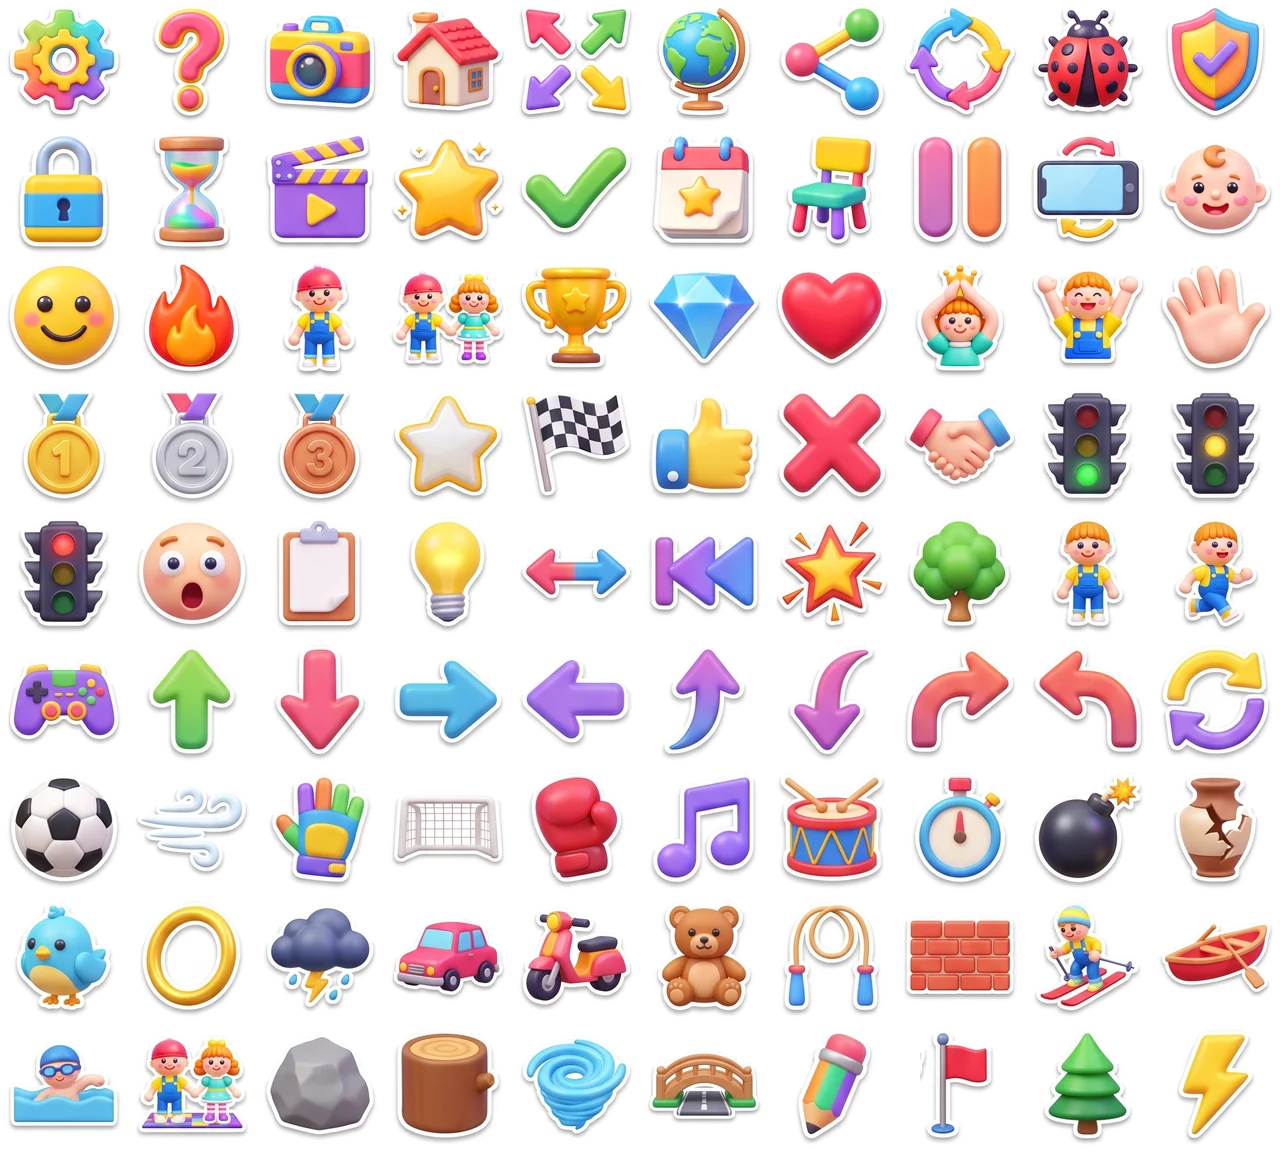
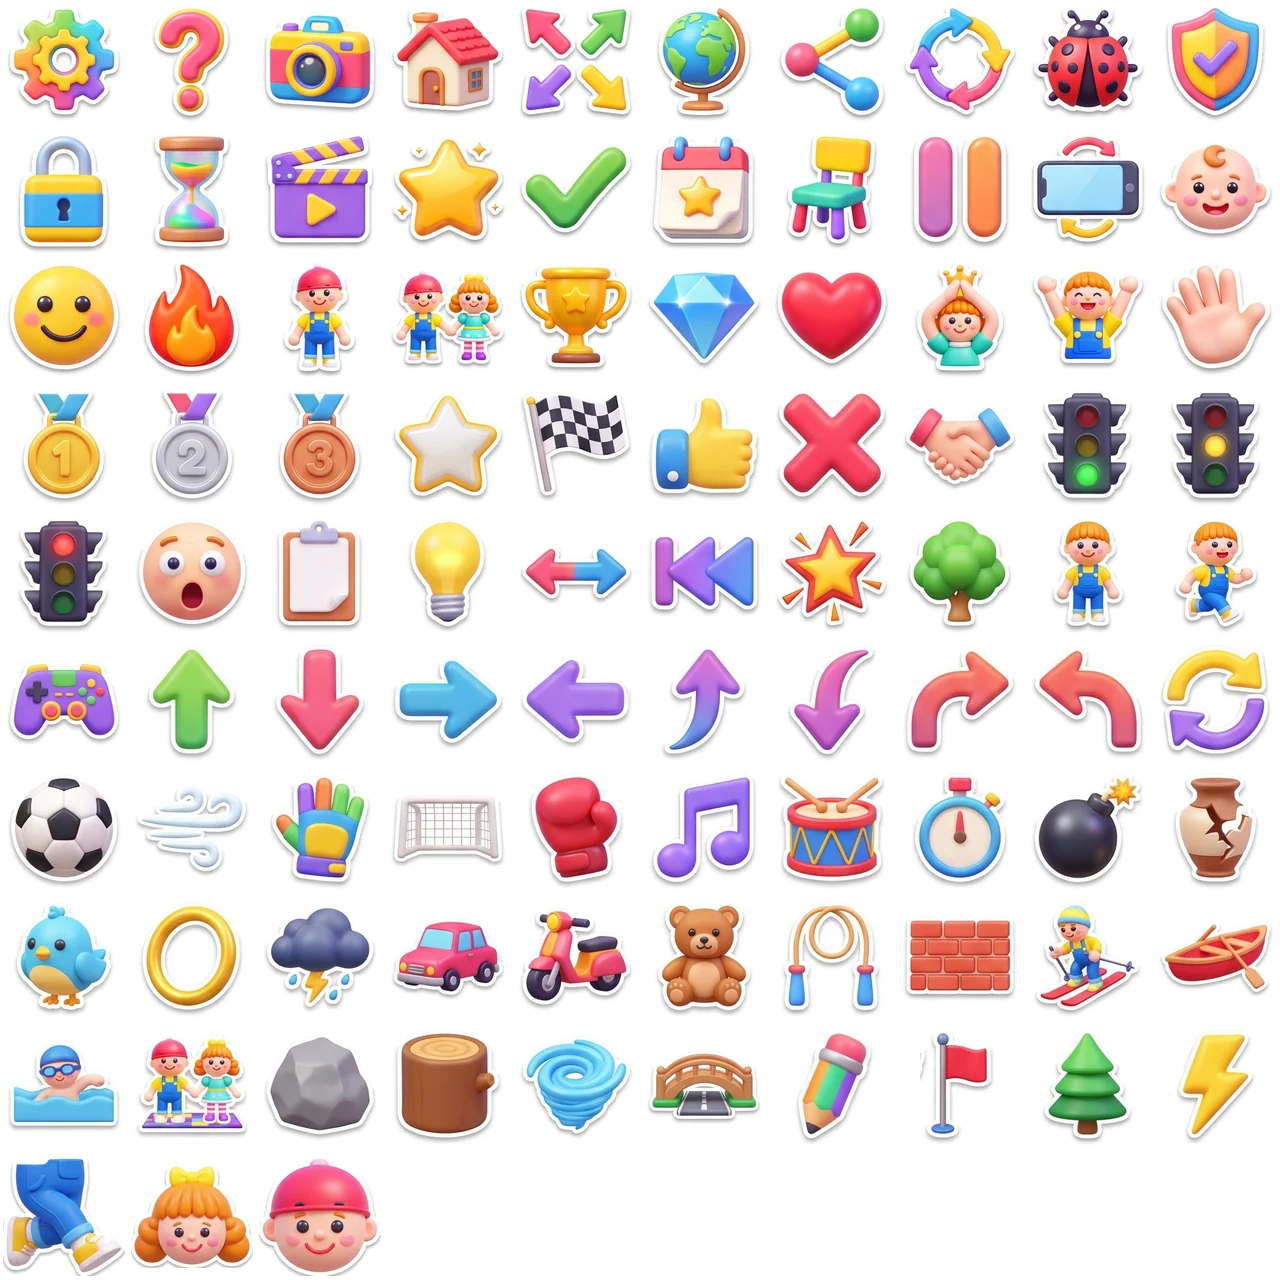
Simgeler: bacak simgesi, karakter düğmelerine Ponçik ve Zıpır yüzleri
Claude-Session: https://claude.ai/code/session_015fAnPL2zg1aQeccfnf8zVv

diff --git a/index.html b/index.html
@@ -211,8 +211,9 @@
   #ogretici, #ayarPanel, #cikisPanel, #bilgiPanel, #kilit, #cift { bottom: var(--alt); }
   @media (orientation: portrait) { #kartlar { grid-template-columns: repeat(3, 1fr); grid-auto-rows: auto; flex: 1; } }
   /* Oyunun kendi simgeleri (emojilerin yerine, tek resim atlası) */
-  .sm { display: inline-block; width: 1.3em; height: 1.3em; vertical-align: -0.3em; background: url(assets/simgeler.webp) 0 0 / 1000% 900% no-repeat; font-style: normal; }
+  .sm { display: inline-block; width: 1.3em; height: 1.3em; vertical-align: -0.3em; background: url(assets/simgeler.webp) 0 0 / 1000% 1000% no-repeat; font-style: normal; }
   button .sm, .rozet .sm { margin: 0 .05em; }
+  .kart .sm.yuz { width: 1.7em; height: 1.7em; vertical-align: -0.55em; margin: -.2em .2em -.2em -.1em; }
 </style>
 </head>
 <body>
@@ -368,8 +369,8 @@ async function dilYukle(k) {
 //  SİMGELER — ekrandaki emojiler oyunun kendi çizim simgeleriyle (assets/simgeler.webp, tek resim) değiştirilir.
 //  Tek tablo: emoji → simge adı. Sayfadaki her yazı (düğme, mesaj, panel) otomatik çevrilir; tuvale de aynı simge çizilir.
 // =====================================================================================================
-const SIMGE_KOL = 10, SIMGE_SAT = 9, SIMGE_BOY = 128, SIMGE_YER = {"ayar":0,"soru":1,"kamera":2,"ev":3,"tamekran":4,"dunya":5,"paylas":6,"geriyukle":7,"bocek":8,"kalkan":9,"kilit":10,"kumsaati":11,"reklam":12,"yildiz":13,"onay":14,"takvim":15,"sandalye":16,"duraklat":17,"telefon":18,"bebek":19,"gulen":20,"alev":21,"tek":22,"iki":23,"kupa":24,"elmas":25,"kalp":26,"tac":27,"zafer":28,"el":29,"altin":30,"gumus":31,"bronz":32,"bosyildiz":33,"bitis":34,"begen":35,"carpi":36,"tokalasma":37,"isikyesil":38,"isiksari":39,"isikkirmizi":40,"sasik":41,"pano":42,"ampul":43,"ciftok":44,"geri":45,"patlama":46,"agac":47,"ayakta":48,"kosan":49,"kumanda":50,"yukari":51,"asagi":52,"sag":53,"sol":54,"kivrikyukari":55,"kivrikasagi":56,"sagadonus":57,"soladonus":58,"dongu":59,"top":60,"ruzgar":61,"eldiven":62,"kale":63,"boks":64,"nota":65,"davul":66,"kronometre":67,"bomba":68,"vazo":69,"kus":70,"halka":71,"firtina":72,"araba":73,"motor":74,"ayi":75,"ip":76,"duvar":77,"kayakci":78,"kayik":79,"yuzucu":80,"dans":81,"kaya":82,"kutuk":83,"girdap":84,"kopru":85,"kalem":86,"bayrak":87,"cam":88,"simsek":89};
-const EMOJI_SIMGE = { "📱↻": "telefon", "💃🕺": "dans", "⚙": "ayar", "❓": "soru", "📷": "kamera", "🏠": "ev", "⛶": "tamekran", "🌐": "dunya", "📤": "paylas", "🔄": "geriyukle", "🐞": "bocek", "🛡": "kalkan", "🔒": "kilit", "⏳": "kumsaati", "🎬": "reklam", "⭐": "yildiz", "★": "yildiz", "☆": "bosyildiz", "✅": "onay", "📅": "takvim", "🪑": "sandalye", "⏸": "duraklat", "📱": "telefon", "👶": "bebek", "🙂": "gulen", "🔥": "alev", "👤": "tek", "👥": "iki", "🏆": "kupa", "💎": "elmas", "❤": "kalp", "🙆": "tac", "🙌": "zafer", "✋": "el", "🥇": "altin", "🥈": "gumus", "🥉": "bronz", "🏁": "bitis", "👍": "begen", "❌": "carpi", "✗": "carpi", "🤝": "tokalasma", "🟢": "isikyesil", "🟡": "isiksari", "🔴": "isikkirmizi", "😮": "sasik", "📋": "pano", "💡": "ampul", "↔": "ciftok", "⏪": "geri", "💥": "patlama", "🌳": "agac", "🧍": "ayakta", "🏃": "kosan", "🎮": "kumanda", "⬆": "yukari", "⬇": "asagi", "➡": "sag", "⬅": "sol", "⤴": "kivrikyukari", "⤵": "kivrikasagi", "↪": "sagadonus", "↩": "soladonus", "🔁": "dongu", "⚽": "top", "💨": "ruzgar", "🧤": "eldiven", "🥅": "kale", "🥊": "boks", "🎵": "nota", "🥁": "davul", "⏱": "kronometre", "💣": "bomba", "🏺": "vazo", "🐦": "kus", "⭕": "halka", "⛈": "firtina", "🚗": "araba", "🏍": "motor", "🧸": "ayi", "🪢": "ip", "🧱": "duvar", "⛷": "kayakci", "🚣": "kayik", "🏊": "yuzucu", "💃": "dans", "🕺": "dans", "🪨": "kaya", "🪵": "kutuk", "🌀": "girdap", "🌉": "kopru", "✏": "kalem", "🚩": "bayrak", "🌲": "cam", "⚡": "simsek" };
+const SIMGE_KOL = 10, SIMGE_SAT = 10, SIMGE_BOY = 128, SIMGE_YER = {"ayar":0,"soru":1,"kamera":2,"ev":3,"tamekran":4,"dunya":5,"paylas":6,"geriyukle":7,"bocek":8,"kalkan":9,"kilit":10,"kumsaati":11,"reklam":12,"yildiz":13,"onay":14,"takvim":15,"sandalye":16,"duraklat":17,"telefon":18,"bebek":19,"gulen":20,"alev":21,"tek":22,"iki":23,"kupa":24,"elmas":25,"kalp":26,"tac":27,"zafer":28,"el":29,"altin":30,"gumus":31,"bronz":32,"bosyildiz":33,"bitis":34,"begen":35,"carpi":36,"tokalasma":37,"isikyesil":38,"isiksari":39,"isikkirmizi":40,"sasik":41,"pano":42,"ampul":43,"ciftok":44,"geri":45,"patlama":46,"agac":47,"ayakta":48,"kosan":49,"kumanda":50,"yukari":51,"asagi":52,"sag":53,"sol":54,"kivrikyukari":55,"kivrikasagi":56,"sagadonus":57,"soladonus":58,"dongu":59,"top":60,"ruzgar":61,"eldiven":62,"kale":63,"boks":64,"nota":65,"davul":66,"kronometre":67,"bomba":68,"vazo":69,"kus":70,"halka":71,"firtina":72,"araba":73,"motor":74,"ayi":75,"ip":76,"duvar":77,"kayakci":78,"kayik":79,"yuzucu":80,"dans":81,"kaya":82,"kutuk":83,"girdap":84,"kopru":85,"kalem":86,"bayrak":87,"cam":88,"simsek":89,"bacak":90,"kiz":91,"erkek":92};
+const EMOJI_SIMGE = { "📱↻": "telefon", "💃🕺": "dans", "⚙": "ayar", "❓": "soru", "📷": "kamera", "🏠": "ev", "⛶": "tamekran", "🌐": "dunya", "📤": "paylas", "🔄": "geriyukle", "🐞": "bocek", "🛡": "kalkan", "🔒": "kilit", "⏳": "kumsaati", "🎬": "reklam", "⭐": "yildiz", "★": "yildiz", "☆": "bosyildiz", "✅": "onay", "📅": "takvim", "🪑": "sandalye", "⏸": "duraklat", "📱": "telefon", "👶": "bebek", "🙂": "gulen", "🔥": "alev", "👤": "tek", "👥": "iki", "🏆": "kupa", "💎": "elmas", "❤": "kalp", "🙆": "tac", "🙌": "zafer", "✋": "el", "🥇": "altin", "🥈": "gumus", "🥉": "bronz", "🏁": "bitis", "👍": "begen", "❌": "carpi", "✗": "carpi", "🤝": "tokalasma", "🟢": "isikyesil", "🟡": "isiksari", "🔴": "isikkirmizi", "😮": "sasik", "📋": "pano", "💡": "ampul", "↔": "ciftok", "⏪": "geri", "💥": "patlama", "🌳": "agac", "🧍": "ayakta", "🏃": "kosan", "🎮": "kumanda", "⬆": "yukari", "⬇": "asagi", "➡": "sag", "⬅": "sol", "⤴": "kivrikyukari", "⤵": "kivrikasagi", "↪": "sagadonus", "↩": "soladonus", "🔁": "dongu", "⚽": "top", "💨": "ruzgar", "🧤": "eldiven", "🥅": "kale", "🥊": "boks", "🎵": "nota", "🥁": "davul", "⏱": "kronometre", "💣": "bomba", "🏺": "vazo", "🐦": "kus", "⭕": "halka", "⛈": "firtina", "🚗": "araba", "🏍": "motor", "🧸": "ayi", "🪢": "ip", "🧱": "duvar", "⛷": "kayakci", "🚣": "kayik", "🏊": "yuzucu", "💃": "dans", "🕺": "dans", "🪨": "kaya", "🪵": "kutuk", "🌀": "girdap", "🌉": "kopru", "✏": "kalem", "🚩": "bayrak", "🌲": "cam", "⚡": "simsek", "🦵": "bacak" };
 const simgeDesen = new RegExp("(" + Object.keys(EMOJI_SIMGE).sort((a, b) => b.length - a.length).map(e => e.replace(/[.*+?^${}()|[\]\\]/g, "\\$&")).join("|") + ")\uFE0F?", "gu");
 const simgeResim = new Image(); simgeResim.src = "assets/simgeler.webp";
 function simgeKonum(ad) { const i = SIMGE_YER[ad]; return [i % SIMGE_KOL, Math.floor(i / SIMGE_KOL)]; }
@@ -2141,6 +2142,7 @@ function hubKur() {
     b.addEventListener("click", () => oyunAc(o));
     $("kartlar").appendChild(b);
   }
+  hub.querySelectorAll(".kart[data-k]").forEach(k => { const y = simgeEl(k.dataset.k); y.classList.add("yuz"); k.prepend(y); });      // karakter düğmelerinde oyuncağın yüzü
   hub.querySelectorAll(".kart[data-k]").forEach(k => k.addEventListener("click", () => { karakterSec(k.dataset.k); ikonlariYaz(); menuGoster(); }));
   $("ev").addEventListener("click", menuGoster);
 }
